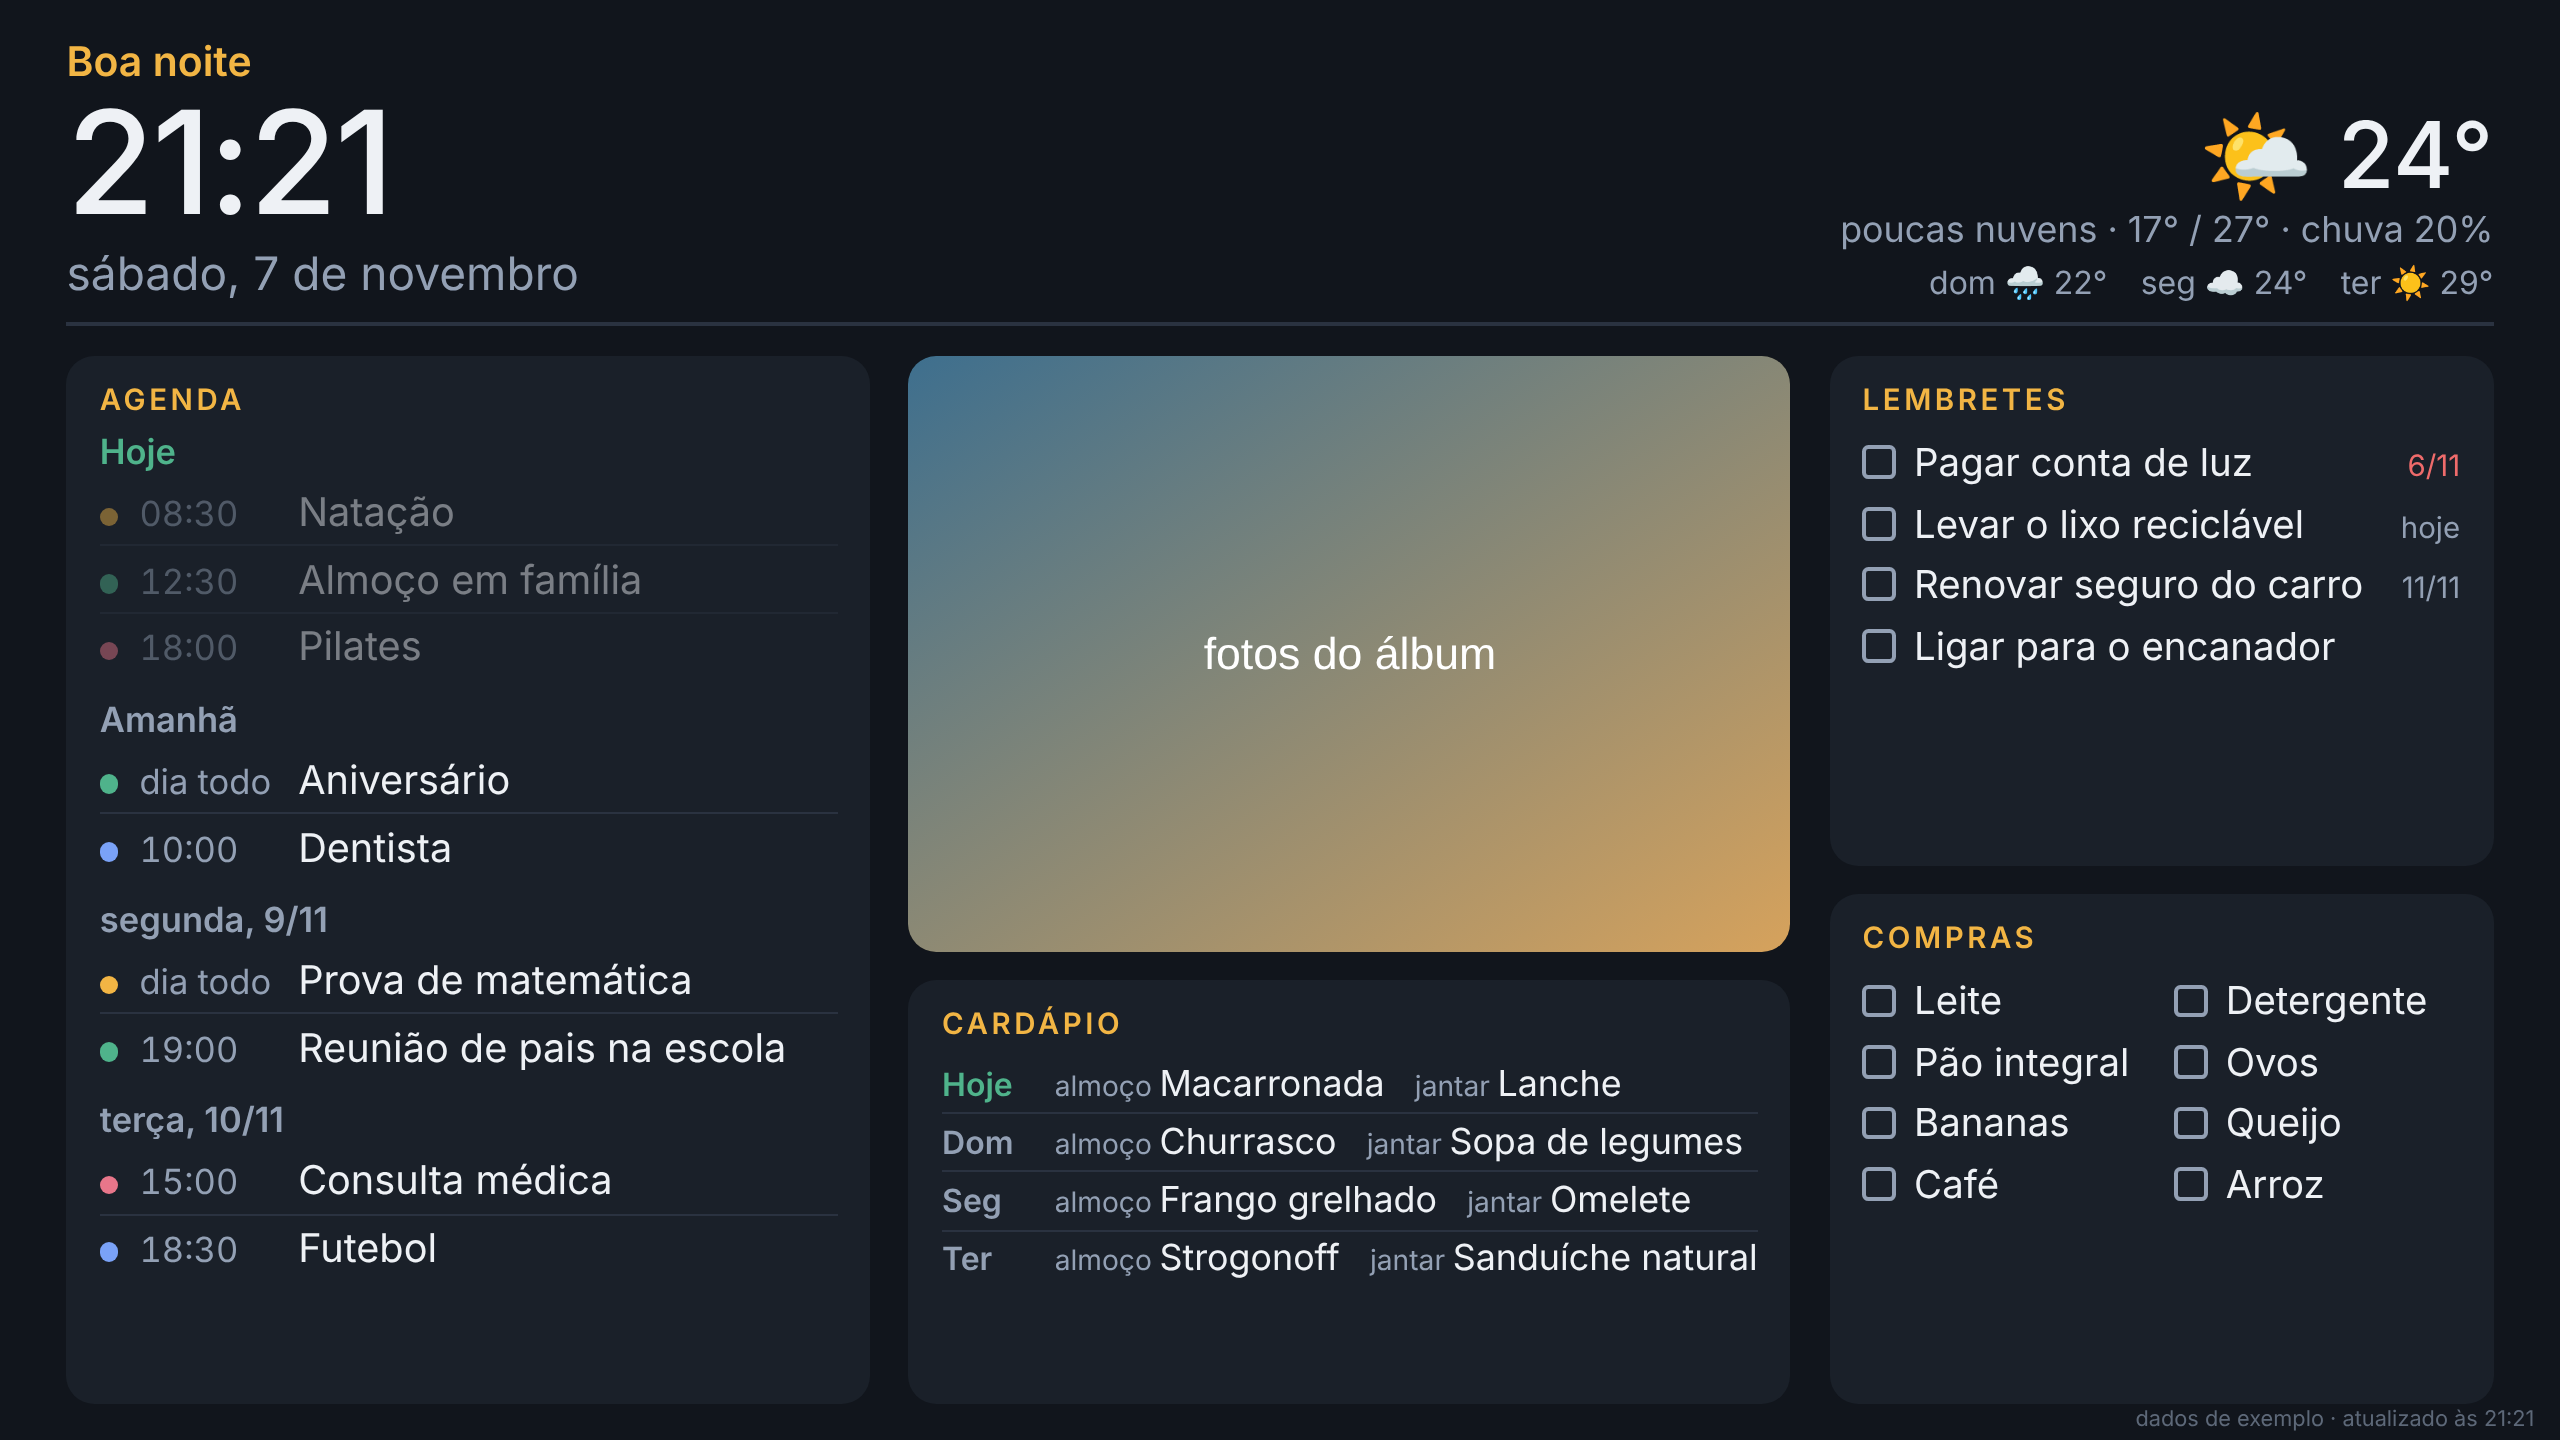
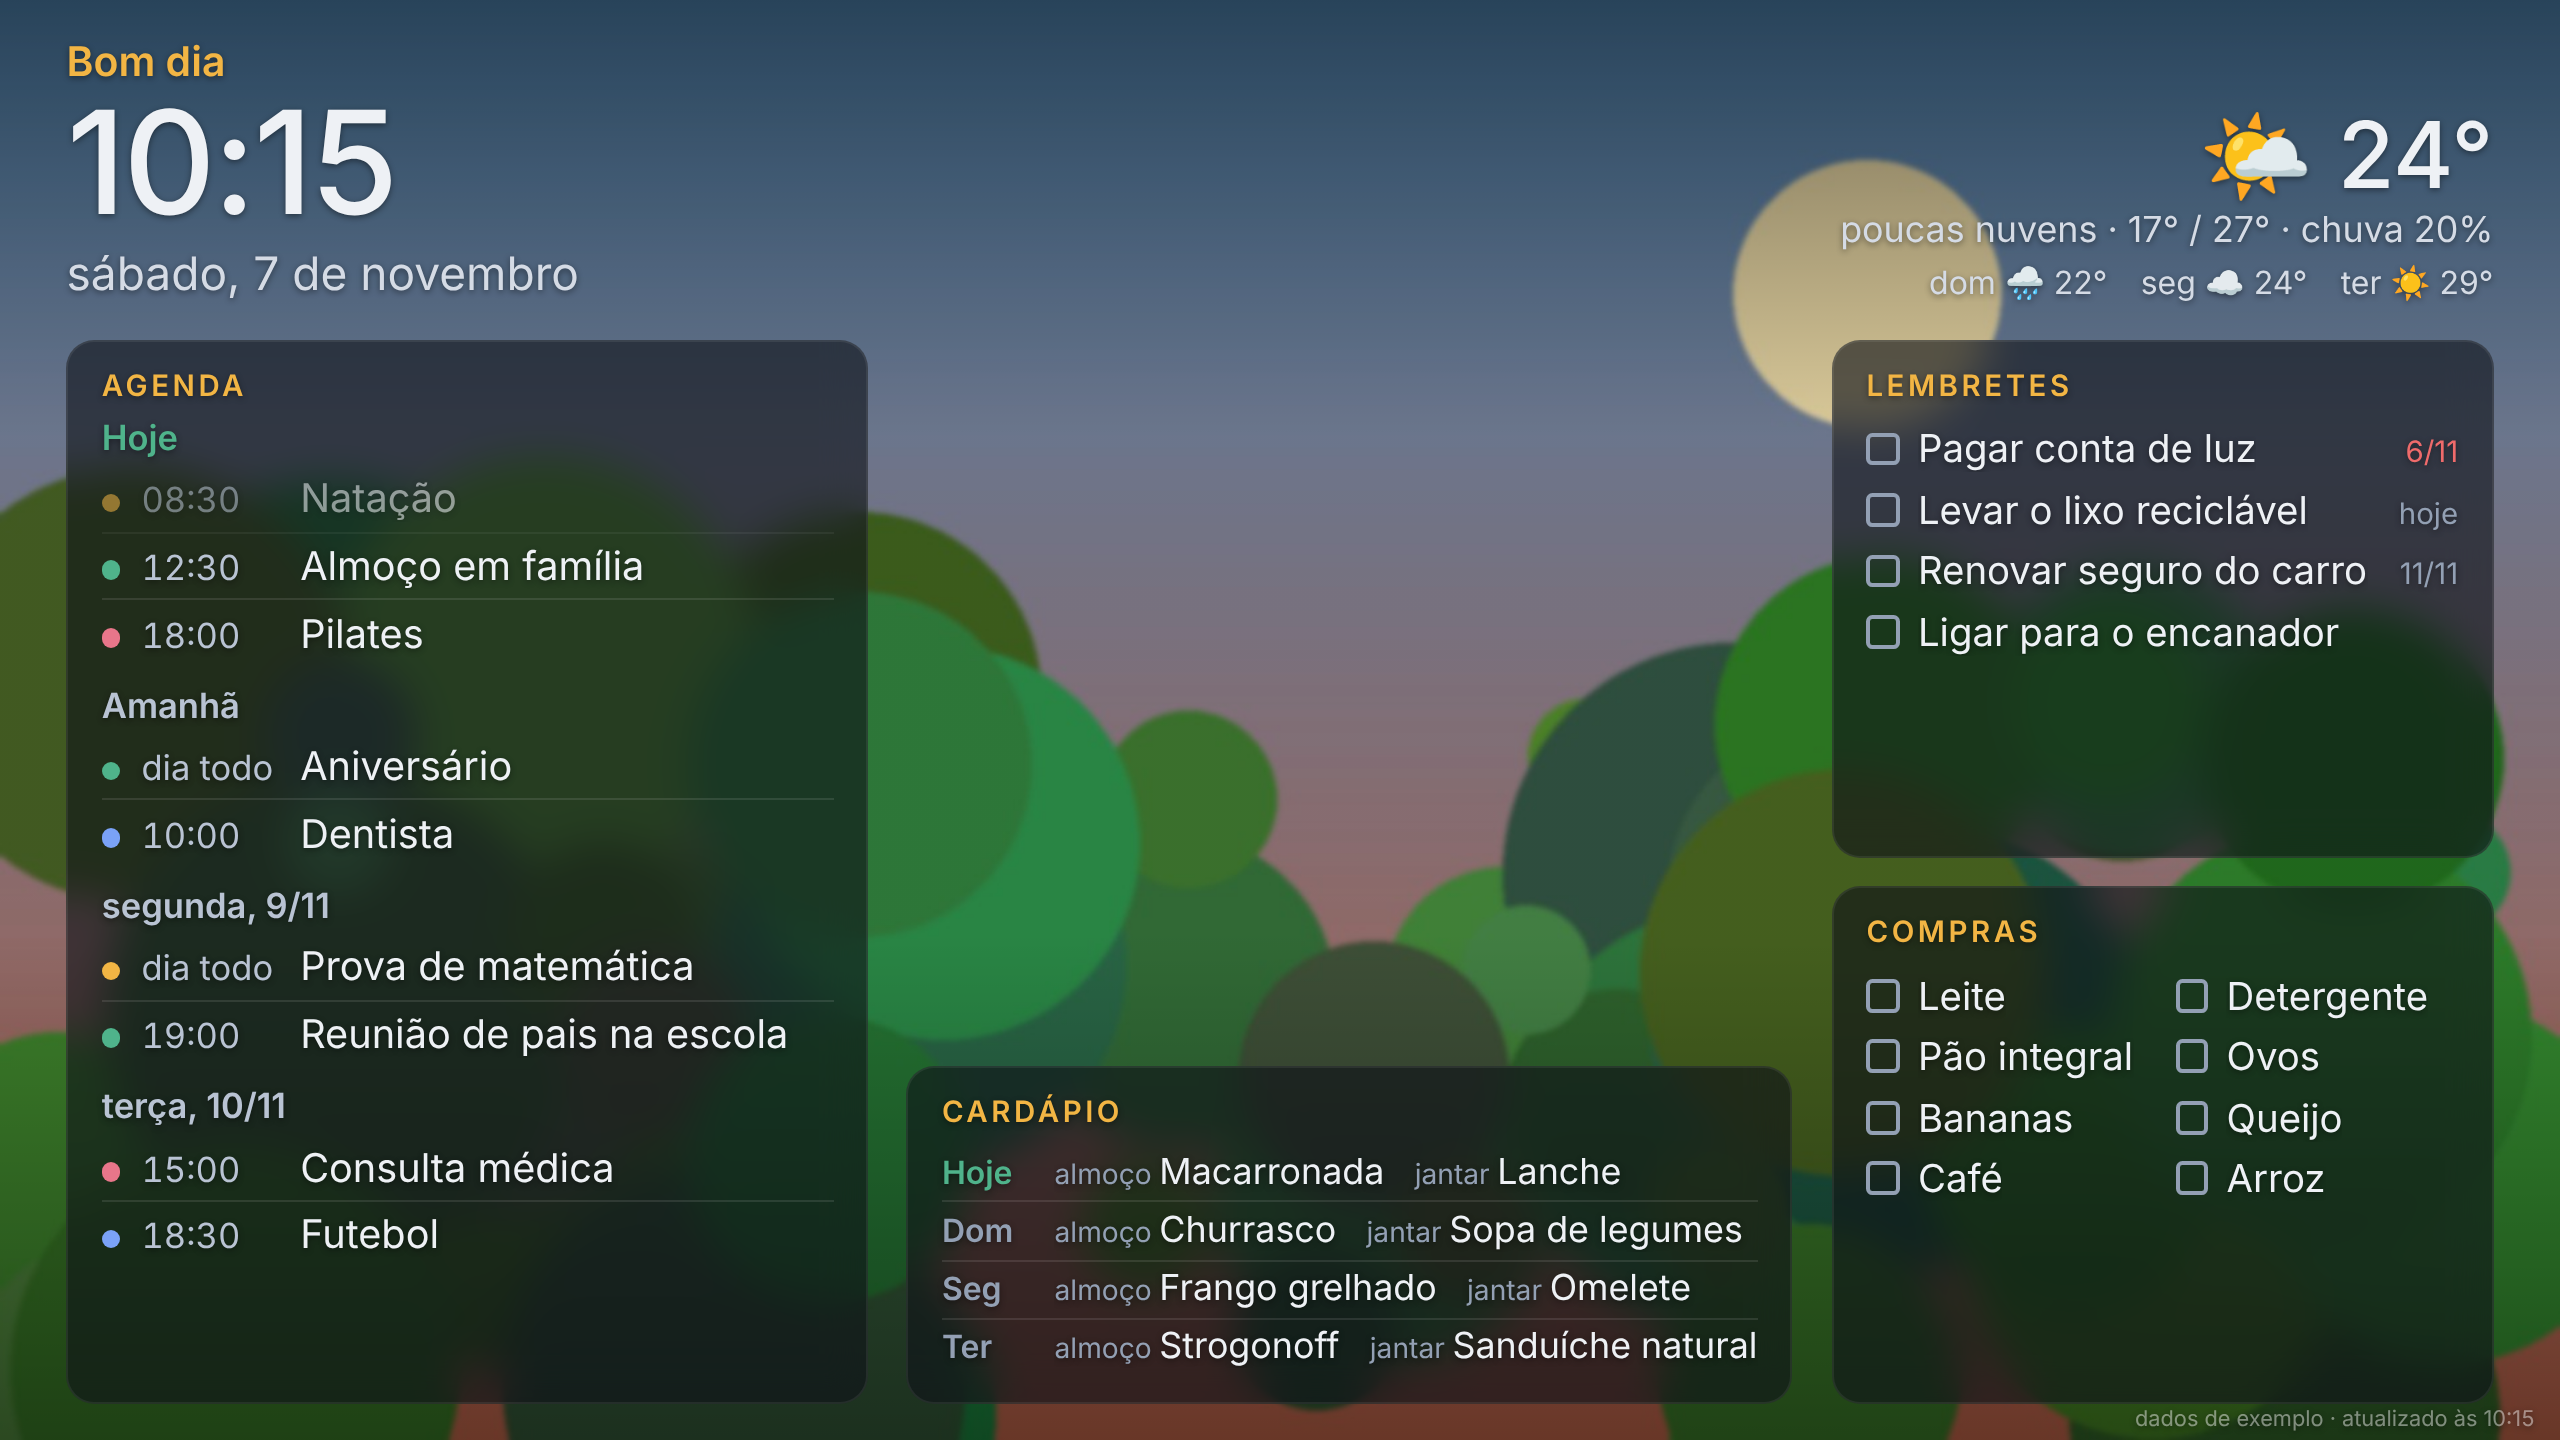
Foto de fundo em tela cheia e cards translúcidos
- A foto do álbum vira o fundo da tela inteira e é pedida no tamanho
  real da tela (até 4K), em vez de 1280 px esticados.
- Cards translúcidos com desfoque (sem desfoque no Chromecast, que é
  mais fraco) e sombra no texto para continuar legível.
- Agenda e listas removem os últimos itens até caber e mostram
  "+ N eventos/itens" em vez de cortar no fim do card.
- Corrige o slideshow, que reiniciava a cada atualização de dados.

Claude-Session: https://claude.ai/code/session_01ASrQTVnj2bgHuAiyRXjmuY

diff --git a/web/index.html b/web/index.html
@@ -18,8 +18,8 @@
 <style>
   :root {
     --bg: #11151c;
-    --panel: #1a2029;
-    --line: #2a3240;
+    --panel: rgba(14, 18, 25, 0.62);
+    --line: rgba(255, 255, 255, 0.10);
     --text: #eef1f5;
     --muted: #93a0b4;
     --accent: #f2b544;
@@ -28,6 +28,8 @@
   }
   * { box-sizing: border-box; margin: 0; padding: 0; }
   html, body { height: 100%; background: var(--bg); color: var(--text); overflow: hidden; }
+  /* o fundo fica só no html: no body ele cobriria a foto (z-index negativo) */
+  body { background: transparent; text-shadow: 0 1px 3px rgba(0, 0, 0, 0.45); }
   body {
     font-family: "Google Sans", Roboto, "Segoe UI", system-ui, sans-serif;
     font-size: 1.5vw;
@@ -40,37 +42,45 @@
   header {
     grid-column: 1 / -1;
     display: flex; align-items: flex-end; justify-content: space-between;
-    border-bottom: 2px solid var(--line); padding-bottom: 1.4vh;
+    padding-bottom: 0.6vh;
   }
+
+  /* foto de fundo em tela cheia */
+  #bg { position: fixed; inset: 0; z-index: -2; background: var(--bg); }
+  #bg img { position: absolute; inset: 0; width: 100%; height: 100%; object-fit: cover; opacity: 0; transition: opacity 2s ease; }
+  #bg img.show { opacity: 1; }
+  /* escurece em cima (relógio) e embaixo, e um pouco no geral, para o texto continuar legível */
+  #shade { position: fixed; inset: 0; z-index: -1; pointer-events: none;
+    background: linear-gradient(to bottom, rgba(0,0,0,0.55) 0%, rgba(0,0,0,0.15) 30%, rgba(0,0,0,0.15) 65%, rgba(0,0,0,0.5) 100%); }
   .hello { font-size: 1.6vw; color: var(--accent); font-weight: 600; margin-bottom: 0.6vh; }
   #clock { font-size: 5.6vw; font-weight: 500; line-height: 1; letter-spacing: -0.02em; }
-  #date { font-size: 1.8vw; color: var(--muted); margin-top: 0.6vh; }
+  #date { font-size: 1.8vw; color: #d5dbe5; margin-top: 0.6vh; }
   #weather { text-align: right; }
   #weather .now { font-size: 3.6vw; font-weight: 500; line-height: 1; }
-  #weather .range { font-size: 1.4vw; color: var(--muted); margin-top: 0.6vh; }
-  #weather .days { display: flex; gap: 1.3vw; justify-content: flex-end; margin-top: 0.7vh; font-size: 1.25vw; color: var(--muted); }
+  #weather .range { font-size: 1.4vw; color: #d5dbe5; margin-top: 0.6vh; }
+  #weather .days { display: flex; gap: 1.3vw; justify-content: flex-end; margin-top: 0.7vh; font-size: 1.25vw; color: #d5dbe5; }
 
-  .card { background: var(--panel); border-radius: 1.1vw; padding: 1.8vh 1.3vw; overflow: hidden; min-height: 0; }
+  .card { background: var(--panel); border: 1px solid rgba(255, 255, 255, 0.07); border-radius: 1.1vw; padding: 1.8vh 1.3vw; overflow: hidden; min-height: 0;
+    -webkit-backdrop-filter: blur(10px); backdrop-filter: blur(10px); }
+  /* Chromecast antigo: sem desfoque, que pesa no processador; compensa com fundo mais opaco */
+  .lite .card { -webkit-backdrop-filter: none; backdrop-filter: none; background: rgba(14, 18, 25, 0.74); }
+  .spacer { flex: 1 1 0; }
+  .more { color: var(--muted); font-style: italic; font-size: 1.25vw; padding-top: 0.4vh; }
   .col { display: flex; flex-direction: column; gap: 2vh; min-height: 0; }
   .col > .card { flex: 1 1 0; }
   h2 { font-size: 1.15vw; text-transform: uppercase; letter-spacing: 0.12em; color: var(--accent); font-weight: 600; margin-bottom: 1vh; }
 
   /* agenda */
   .day { margin-bottom: 1.4vh; }
-  .day-title { font-size: 1.35vw; color: var(--muted); font-weight: 600; margin-bottom: 0.4vh; }
+  .day-title { font-size: 1.35vw; color: #b9c3d3; font-weight: 600; margin-bottom: 0.4vh; }
   .day.is-today .day-title { color: var(--today); }
   .event { display: flex; align-items: baseline; gap: 0.8vw; padding: 0.6vh 0; border-bottom: 1px solid var(--line); }
   .event:last-child { border-bottom: 0; }
   .event .dot { width: 0.75vw; height: 0.75vw; border-radius: 50%; flex: none; }
-  .event .time { width: 5.4vw; flex: none; color: var(--muted); font-variant-numeric: tabular-nums; font-size: 1.35vw; }
+  .event .time { width: 5.4vw; flex: none; color: #b9c3d3; font-variant-numeric: tabular-nums; font-size: 1.35vw; }
   .event .title { flex: 1; white-space: nowrap; overflow: hidden; text-overflow: ellipsis; font-size: 1.55vw; }
-  .event.past { opacity: 0.45; }
+  .event.past { opacity: 0.55; }
 
-  /* fotos */
-  #photo { position: relative; padding: 0; background: #000; }
-  #photo img { position: absolute; inset: 0; width: 100%; height: 100%; object-fit: cover; opacity: 0; transition: opacity 1.5s ease; }
-  #photo img.show { opacity: 1; }
-  #photo .empty { position: absolute; inset: 0; display: flex; align-items: center; justify-content: center; }
 
   /* listas */
   ul { list-style: none; }
@@ -93,10 +103,12 @@
   .menu-row .m small { color: var(--muted); font-size: 1.1vw; margin-right: 0.3vw; }
 
   .hidden { display: none !important; }
-  #status { position: fixed; right: 1vw; bottom: 0.6vh; font-size: 0.85vw; color: #5d6878; }
+  #status { position: fixed; right: 1vw; bottom: 0.6vh; font-size: 0.85vw; color: rgba(255, 255, 255, 0.45); }
 </style>
 </head>
 <body>
+  <div id="bg"></div>
+  <div id="shade"></div>
   <header>
     <div>
       <div class="hello" id="hello"></div>
@@ -112,8 +124,8 @@
   </div>
 
   <div class="col" id="middle">
-    <div class="card" id="photo" style="flex: 1.6 1 0"><div class="empty">Sem fotos</div></div>
-    <div class="card" id="menu-card">
+    <div class="spacer"></div>
+    <div class="card" id="menu-card" style="flex: none">
       <h2>Cardápio</h2>
       <div id="menu"></div>
     </div>
@@ -221,7 +233,7 @@
   function renderItems(items, max, withDue) {
     if (!items || !items.length) return '<div class="empty">Tudo feito</div>';
     var today = startOfDay(new Date()), html = "<ul>";
-    items.slice(0, max).forEach(function (t) {
+    items.forEach(function (t) {
       var due = "", late = false;
       if (withDue && t.due) {
         var d = startOfDay(new Date(t.due.slice(0, 10) + "T12:00:00")); // Tasks guarda só a data
@@ -231,7 +243,6 @@
       html += '<li class="' + (late ? "late" : "") + '"><span>' + esc(t.title) + "</span>" +
               (due ? '<span class="due">' + due + "</span>" : "") + "</li>";
     });
-    if (items.length > max) html += '<li class="more empty">+ ' + (items.length - max) + " itens</li>";
     return html + "</ul>";
   }
 
@@ -257,39 +268,74 @@
     $("menu").innerHTML = html;
   }
 
-  // ---------- fotos ----------
-  var photos = [], photoIdx = -1, photoTimer = null;
+  // ---------- fotos (fundo da tela inteira) ----------
+  // Pede a foto no tamanho real da tela (TVs 4K chegam a 3840 px) para não ficar serrilhada.
+  var SCREEN_W = Math.min(3840, Math.round(screen.width * (window.devicePixelRatio || 1)));
+  var SCREEN_H = Math.min(2160, Math.round(screen.height * (window.devicePixelRatio || 1)));
+  var photos = [], photosKey = "", photoIdx = -1, photoTimer = null;
   function setPhotos(list) {
-    var changed = JSON.stringify(list) !== JSON.stringify(photos);
-    photos = list || [];
-    if (!photos.length) { $("photo").innerHTML = '<div class="empty">Sem fotos</div>'; return; }
-    if (changed || !photoTimer) {
-      // embaralha para não repetir sempre a mesma sequência
-      for (var i = photos.length - 1; i > 0; i--) { var j = Math.floor(Math.random() * (i + 1)); var t = photos[i]; photos[i] = photos[j]; photos[j] = t; }
-      photoIdx = -1;
-      nextPhoto();
-      clearInterval(photoTimer);
-      photoTimer = setInterval(nextPhoto, CONFIG.photoEveryMs);
-    }
+    list = list || [];
+    var key = JSON.stringify(list);
+    if (!list.length) { photos = []; photosKey = ""; clearInterval(photoTimer); photoTimer = null; $("bg").innerHTML = ""; return; }
+    if (key === photosKey && photoTimer) return; // mesma lista: segue a sequência atual
+    photosKey = key;
+    photos = list.slice();
+    // embaralha para não repetir sempre a mesma sequência
+    for (var i = photos.length - 1; i > 0; i--) { var j = Math.floor(Math.random() * (i + 1)); var t = photos[i]; photos[i] = photos[j]; photos[j] = t; }
+    photoIdx = -1;
+    nextPhoto();
+    clearInterval(photoTimer);
+    photoTimer = setInterval(nextPhoto, CONFIG.photoEveryMs);
   }
   function photoUrl(p) {
-    if (p.url) return Promise.resolve(p.url);
+    if (p.url) {
+      // álbum do Google Fotos: troca o sufixo de tamanho (=w1280-h800) pelo da tela
+      if (/googleusercontent\.com/.test(p.url)) {
+        return Promise.resolve(p.url.replace(/=[^=\/]*$/, "") + "=w" + SCREEN_W + "-h" + SCREEN_H);
+      }
+      return Promise.resolve(p.url);
+    }
     // fotos do Google Drive chegam como data URL pedida ao script
-    return fetch(apiUrl({ foto: p.id })).then(function (r) { return r.json(); }).then(function (j) { return j.dataUrl; });
+    return fetch(apiUrl({ foto: p.id, w: SCREEN_W })).then(function (r) { return r.json(); }).then(function (j) { return j.dataUrl; });
   }
   function nextPhoto() {
     if (!photos.length) return;
     photoIdx = (photoIdx + 1) % photos.length;
     photoUrl(photos[photoIdx]).then(function (src) {
-      var box = $("photo"), img = new Image();
+      if (!src) return;
+      var box = $("bg"), img = new Image();
+      img.decoding = "async";
       img.onload = function () {
         box.appendChild(img);
-        requestAnimationFrame(function () { img.classList.add("show"); });
-        var old = box.querySelectorAll("img, .empty");
-        setTimeout(function () { for (var i = 0; i < old.length - 1; i++) old[i].remove(); }, 1700);
+        requestAnimationFrame(function () { requestAnimationFrame(function () { img.classList.add("show"); }); });
+        var old = box.querySelectorAll("img");
+        setTimeout(function () { for (var i = 0; i < old.length - 1; i++) old[i].remove(); }, 2200);
       };
       img.src = src;
     }).catch(function () {});
+  }
+
+  // ---------- encaixe: nada é cortado no fim dos cards ----------
+  // Remove os últimos itens até o card caber e mostra "+ N ..." no lugar.
+  function fit(card, list, selector, noun) {
+    if (!card || !list) return;
+    var old = list.querySelector(".more");
+    if (old) old.remove();
+    var items = list.querySelectorAll(selector), hidden = 0, more = null;
+    for (var i = items.length - 1; i > 0 && card.scrollHeight > card.clientHeight + 1; i--) {
+      var it = items[i], parent = it.parentNode;
+      parent.removeChild(it);
+      hidden++;
+      // dia da agenda que ficou sem eventos some junto
+      if (parent.classList && parent.classList.contains("day") && !parent.querySelector(selector)) parent.remove();
+      if (!more) { more = document.createElement(list.tagName === "UL" ? "li" : "div"); more.className = "more"; list.appendChild(more); }
+      more.textContent = "+ " + hidden + " " + noun;
+    }
+  }
+  function fitAll() {
+    fit($("agenda"), $("events"), ".event", "eventos");
+    fit($("reminders-card"), $("reminders").querySelector("ul"), "li", "itens");
+    fit($("shopping-card"), $("shopping").querySelector("ul"), "li", "itens");
   }
 
   // ---------- tempo (Open-Meteo, sem chave) ----------
@@ -351,6 +397,7 @@
     $("shopping-card").classList.toggle("hidden", !data.shopping);
     renderMenu(data.menu);
     setPhotos(data.photos || []);
+    fitAll();
     lastOk = Date.now();
     $("status").textContent = (data.demo ? "dados de exemplo · " : "") + "atualizado às " + hm(new Date()) +
       (data.warnings && data.warnings.length ? " · aviso: " + data.warnings.join(" | ") : "");
@@ -406,6 +453,7 @@
 
   // ---------- Chromecast: mantém o receptor aberto ----------
   if (/CrKey/.test(navigator.userAgent)) {
+    document.documentElement.className += " lite";
     var s = document.createElement("script");
     s.src = "https://www.gstatic.com/cast/sdk/libs/caf_receiver/v3/cast_receiver_framework.js";
     s.onload = function () {
